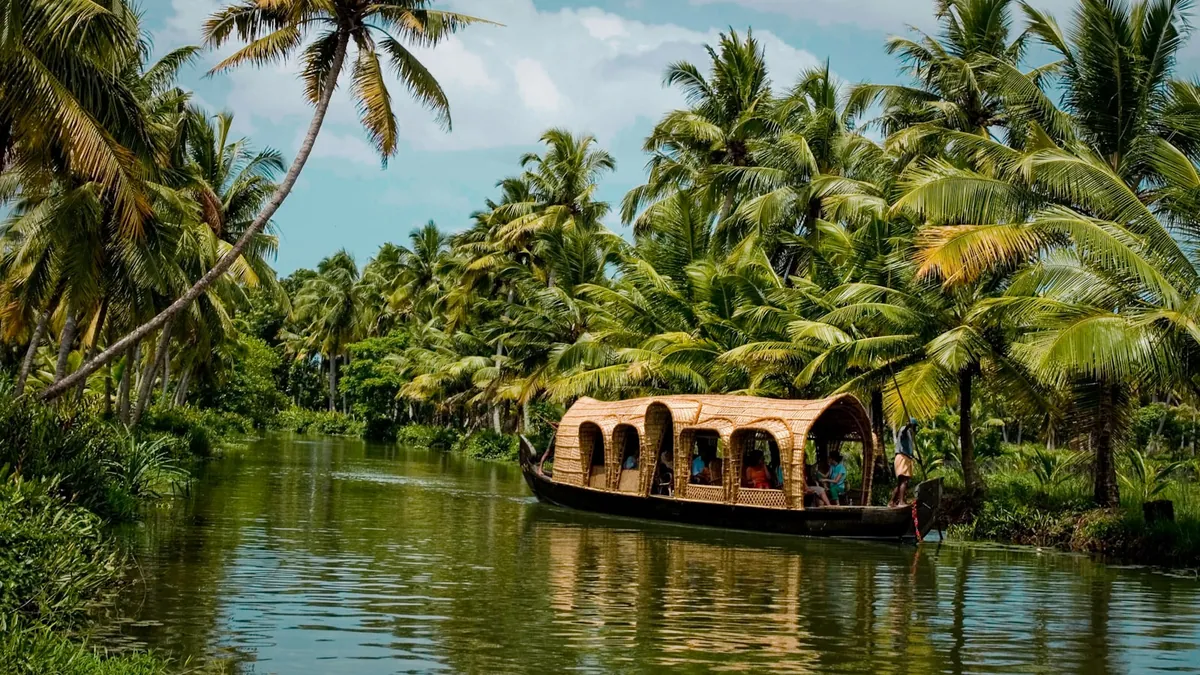
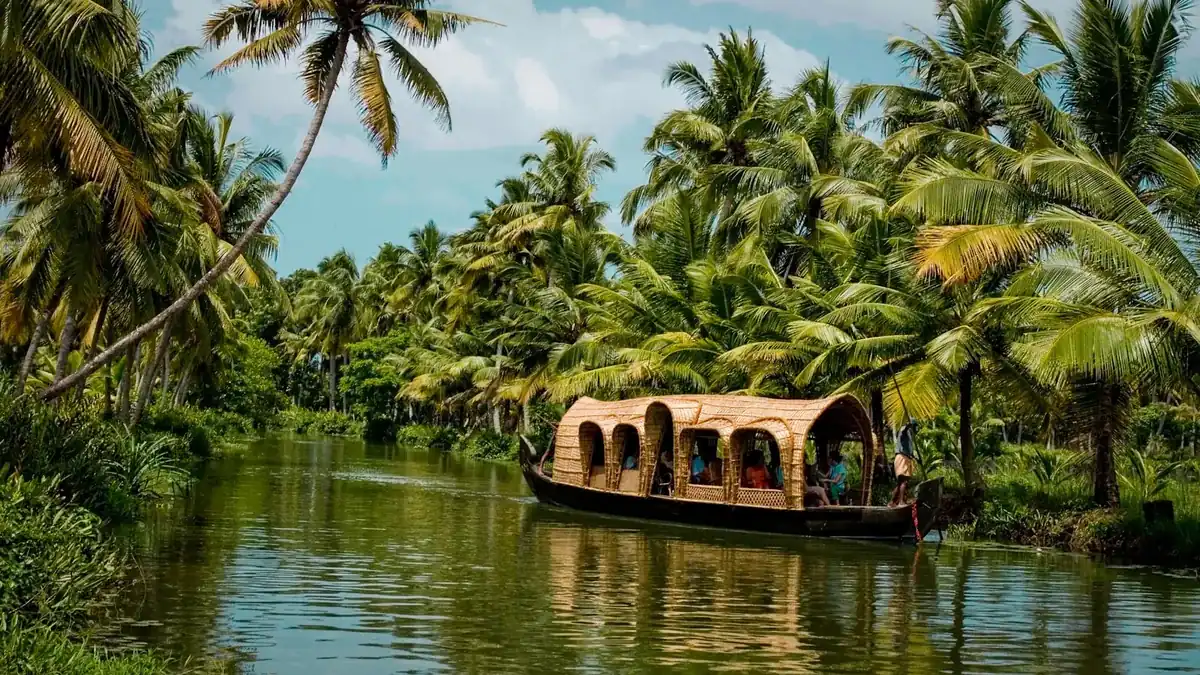
chore: optimize all images to webp and fix font LCP issues

diff --git a/frontend/index.html b/frontend/index.html
@@ -11,7 +11,8 @@
     <link rel="preconnect" href="https://fonts.gstatic.com" crossorigin>
     <link href="https://fonts.googleapis.com/css2?family=Inter:wght@100;200;300;400;500;600;700;800;900&family=Outfit:wght@300;400;500;600;700;800&display=swap" rel="stylesheet" media="print" onload="this.media='all'">
     <noscript><link href="https://fonts.googleapis.com/css2?family=Inter:wght@100;200;300;400;500;600;700;800;900&family=Outfit:wght@300;400;500;600;700;800&display=swap" rel="stylesheet"></noscript>
-    <link href="https://fonts.googleapis.com/css2?family=Material+Symbols+Outlined:opsz,wght,FILL,GRAD@24,400,0..1,0&display=swap" rel="stylesheet" />
+    <link href="https://fonts.googleapis.com/css2?family=Material+Symbols+Outlined:opsz,wght,FILL,GRAD@24,400,0..1,0&display=swap" rel="stylesheet" media="print" onload="this.media='all'" />
+    <noscript><link href="https://fonts.googleapis.com/css2?family=Material+Symbols+Outlined:opsz,wght,FILL,GRAD@24,400,0..1,0&display=swap" rel="stylesheet" /></noscript>
     <link rel="preload" as="image" href="./assets/images/premium_hero_1.webp" fetchpriority="high" />
   </head>
   <body>

diff --git a/frontend/src/components/mobile/MobileHomeTab.jsx b/frontend/src/components/mobile/MobileHomeTab.jsx
@@ -82,10 +82,13 @@ const MobileHomeTab = ({
       <header className="relative min-h-[90vh] flex flex-col pt-24 pb-8 px-6">
         <div className="absolute inset-0 z-0 overflow-hidden">
           {heroImages.map((img, index) => (
-            <div
+            <img
               key={index}
-              className={`w-full h-full absolute inset-0 bg-cover bg-center transition-opacity duration-1000 scale-105 ${index === currentSlide ? 'opacity-100 z-10' : 'opacity-0 z-0'}`}
-              style={{ backgroundImage: `url(${img})` }}
+              src={img}
+              alt="Hero Background"
+              className={`w-full h-full object-cover object-center absolute inset-0 transition-opacity duration-1000 scale-105 ${index === currentSlide ? 'opacity-100 z-10' : 'opacity-0 z-0'}`}
+              fetchPriority={index === 0 ? "high" : "auto"}
+              loading={index === 0 ? "eager" : "lazy"}
             />
           ))}
           <div className="absolute inset-0 bg-gradient-to-b from-black/70 via-black/40 to-slate-50 dark:to-slate-950"></div>

diff --git a/frontend/src/App.jsx b/frontend/src/App.jsx
@@ -372,10 +372,13 @@ function App() {
           <div className="absolute inset-0 z-0 overflow-hidden">
 
             {heroImages.map((img, index) => (
-              <div
+              <img
                 key={index}
-                className={`w-full h-full absolute inset-0 bg-cover bg-center transition-opacity duration-1000 scale-105 ${index === currentSlide ? 'opacity-100 z-10' : 'opacity-0 z-0'}`}
-                style={{ backgroundImage: `url(${img})` }}
+                src={img}
+                alt="Hero Background"
+                className={`w-full h-full object-cover object-center absolute inset-0 transition-opacity duration-1000 scale-105 ${index === currentSlide ? 'opacity-100 z-10' : 'opacity-0 z-0'}`}
+                fetchPriority={index === 0 ? "high" : "auto"}
+                loading={index === 0 ? "eager" : "lazy"}
               />
             ))}
 
